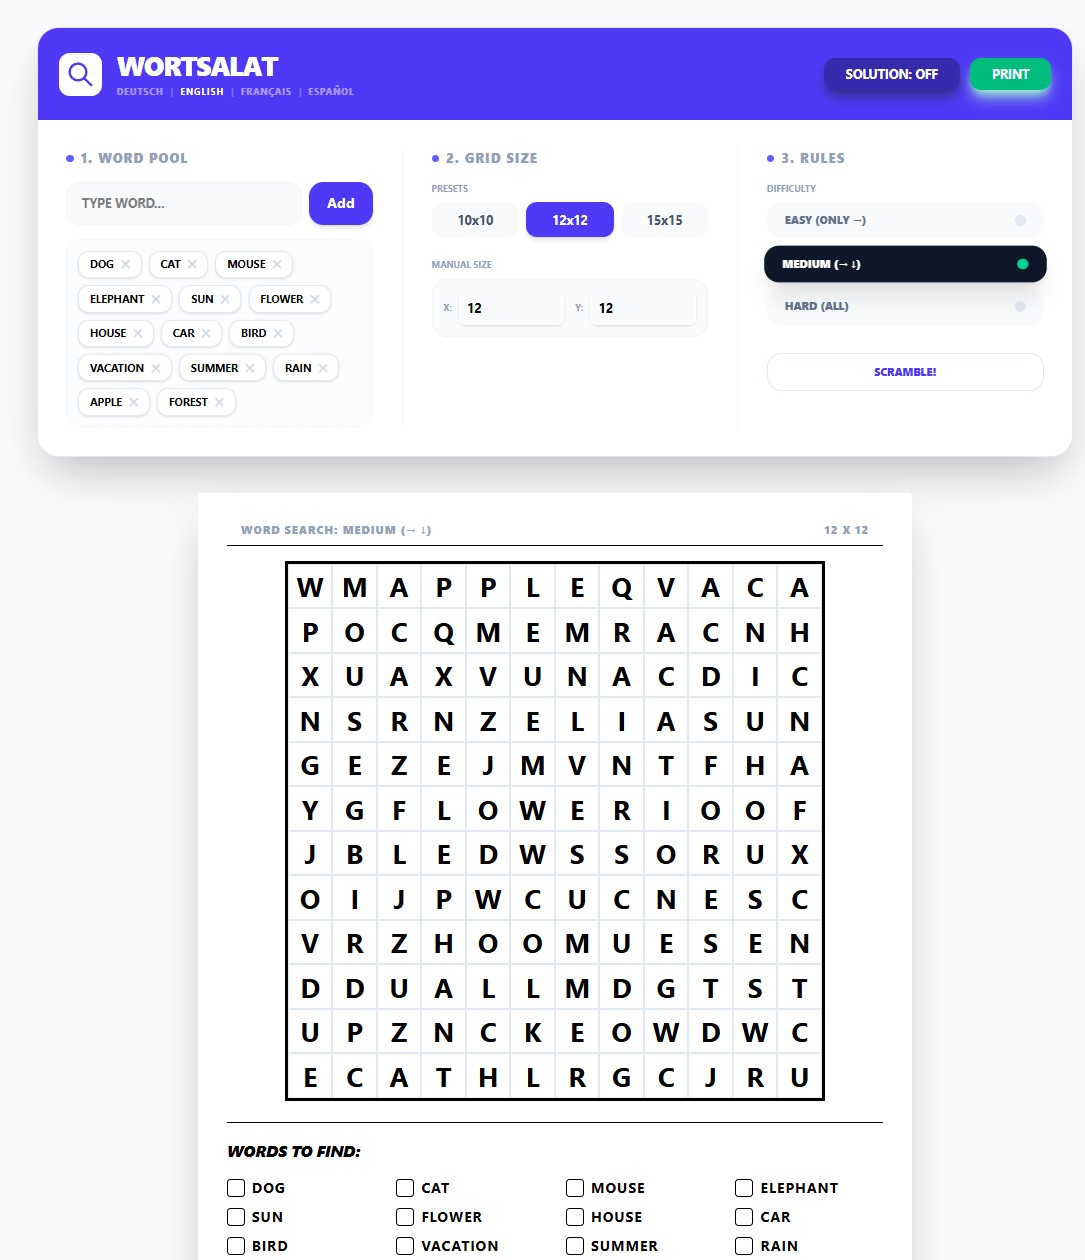
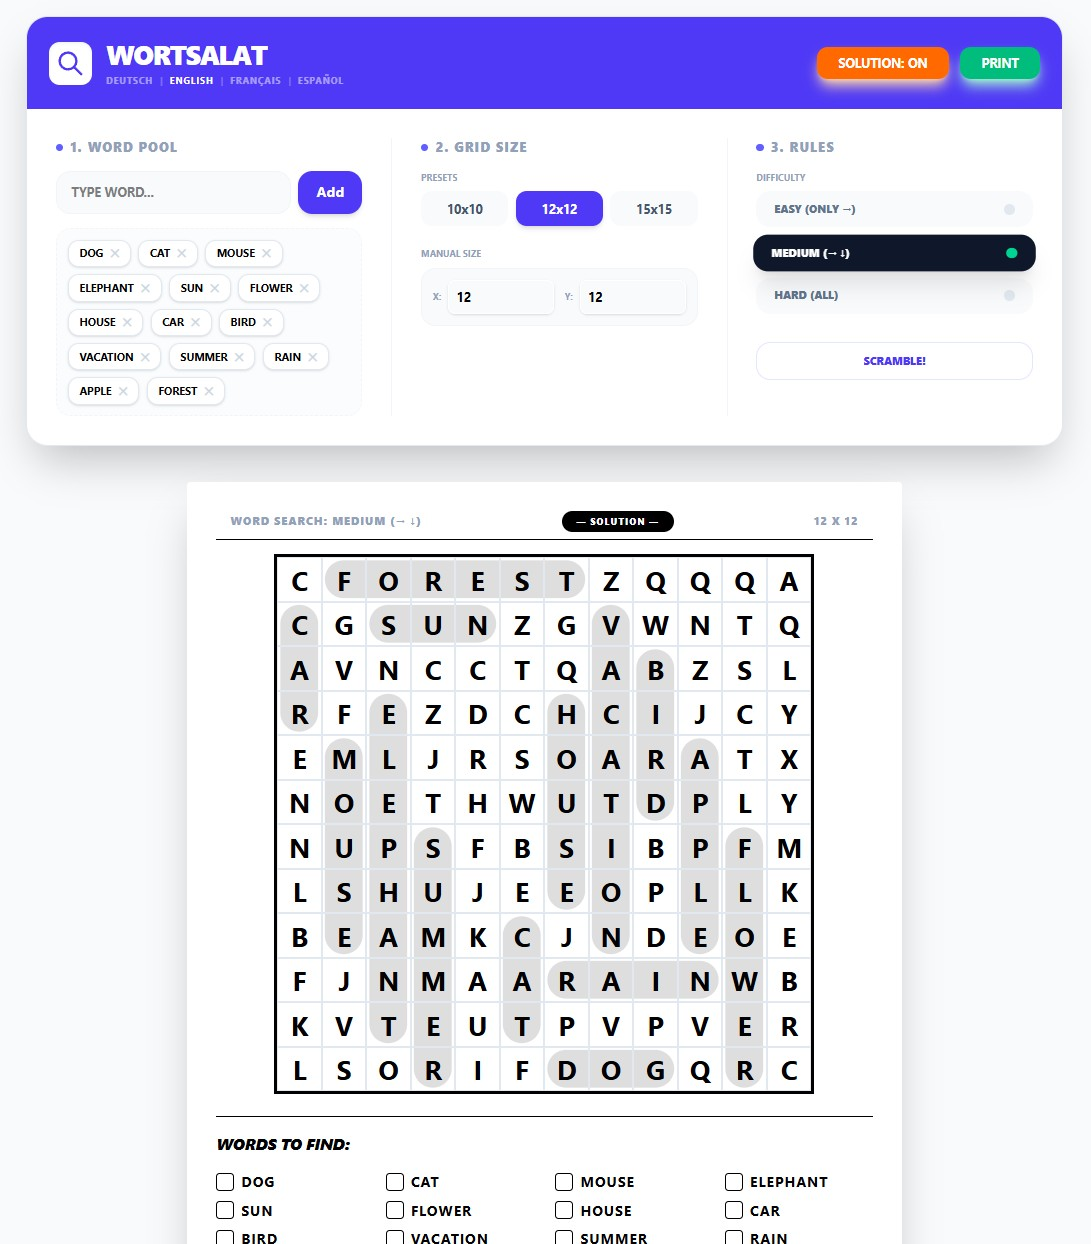
Pills

diff --git a/wortsalat/src/app/app.ts b/wortsalat/src/app/app.ts
@@ -2,7 +2,9 @@ import { Component, signal, computed, OnInit } from '@angular/core';
 import { CommonModule } from '@angular/common';
 import { ReactiveFormsModule, FormControl, Validators } from '@angular/forms';
 
-
+/**
+ * Interface für die Übersetzungen und Sprachkonfiguration
+ */
 interface I18nConfig {
   title: string;
   solutionLabel: string;
@@ -26,6 +28,9 @@ interface I18nConfig {
   starterWords: string[];
 }
 
+/**
+ * Die verschiedenen Sprachpakete
+ */
 const LANGUAGES: { [key: string]: I18nConfig } = {
   de: {
     title: 'Wortsalat',
@@ -188,6 +193,7 @@ interface PlacedWord {
           </div>
 
           <div class="p-8 grid grid-cols-1 lg:grid-cols-3 gap-8">
+            <!-- 1. Wort-Eingabe -->
             <div class="space-y-4 min-w-0">
               <h3 class="text-sm font-black text-slate-400 uppercase tracking-widest flex items-center gap-2">
                 <span class="w-2 h-2 bg-indigo-500 rounded-full"></span> {{ t().step1 }}
@@ -208,6 +214,7 @@ interface PlacedWord {
               </div>
             </div>
 
+            <!-- 2. Gitter-Konfiguration -->
             <div class="space-y-4 border-l border-slate-100 lg:pl-8 min-w-0">
               <h3 class="text-sm font-black text-slate-400 uppercase tracking-widest flex items-center gap-2">
                 <span class="w-2 h-2 bg-indigo-500 rounded-full"></span> {{ t().step2 }}
@@ -228,6 +235,7 @@ interface PlacedWord {
                   </div>
                 </div>
 
+                <!-- Manuelle Eingabe -->
                 <div class="space-y-2">
                   <label class="text-[10px] font-bold text-slate-400 uppercase block">{{ t().manualSize }}</label>
                   <div class="grid grid-cols-2 gap-3 p-3 bg-slate-50 rounded-2xl border-2 border-slate-100">
@@ -244,6 +252,7 @@ interface PlacedWord {
               </div>
             </div>
 
+            <!-- 3. Regeln -->
             <div class="space-y-4 border-l border-slate-100 lg:pl-8 min-w-0">
               <h3 class="text-sm font-black text-slate-400 uppercase tracking-widest flex items-center gap-2">
                 <span class="w-2 h-2 bg-indigo-500 rounded-full"></span> {{ t().step3 }}
@@ -273,6 +282,7 @@ interface PlacedWord {
         </div>
       </div>
 
+      <!-- Druckbares Blatt (A4) - Optimiert für eine Seite -->
       <div id="puzzle-sheet" class="max-w-[210mm] mx-auto bg-white p-6 md:p-8 print:p-0 print:shadow-none shadow-2xl rounded-sm print:m-0 relative overflow-visible">
 
         <header class="mb-4">
@@ -290,29 +300,24 @@ interface PlacedWord {
              [style.max-width]="'600px'"
              [style.aspect-ratio]="cols() + '/' + rows()">
 
+          <!-- Ebene 1: Die Lösungsebene (Pills mit grauem Hintergrund) -->
           @if (showSolution()) {
             <svg class="absolute top-0 left-0 w-full h-full pointer-events-none overflow-visible z-10"
                  [attr.viewBox]="'0 0 ' + (cols() * 10) + ' ' + (rows() * 10)"
                  preserveAspectRatio="none"
                  style="display: block;">
               @for (pw of placedWords(); track $index) {
-                <g>
-                  <!-- Kräftiger Rahmen um das Wort -->
-                  <line
-                    [attr.x1]="pw.x * 10 + 5"
-                    [attr.y1]="pw.y * 10 + 5"
-                    [attr.x2]="(pw.x + pw.dx * (pw.word.length - 1)) * 10 + 5"
-                    [attr.y2]="(pw.y + pw.dy * (pw.word.length - 1)) * 10 + 5"
-                    stroke-linecap="round" stroke="black" stroke-width="12.5"
-                  />
-                  <line
-                    [attr.x1]="pw.x * 10 + 5"
-                    [attr.y1]="pw.y * 10 + 5"
-                    [attr.x2]="(pw.x + pw.dx * (pw.word.length - 1)) * 10 + 5"
-                    [attr.y2]="(pw.y + pw.dy * (pw.word.length - 1)) * 10 + 5"
-                    stroke-linecap="round" stroke="white" stroke-width="9.5"
-                  />
-                </g>
+                <!-- Pills/Kapseln als Hervorhebung -->
+                <line
+                  [attr.x1]="pw.x * 10 + 5"
+                  [attr.y1]="pw.y * 10 + 5"
+                  [attr.x2]="(pw.x + pw.dx * (pw.word.length - 1)) * 10 + 5"
+                  [attr.y2]="(pw.y + pw.dy * (pw.word.length - 1)) * 10 + 5"
+                  stroke-linecap="round"
+                  stroke="rgba(200, 200, 200, 0.6)"
+                  stroke-width="8.5"
+                  class="print:stroke-slate-200"
+                />
               }
             </svg>
           }
@@ -332,7 +337,7 @@ interface PlacedWord {
           </div>
         </div>
 
-        <!-- Wortliste zum Suchen - Kleiner gestaltet -->
+        <!-- Wortliste zum Suchen -->
         <div class="mt-6 border-t-2 border-black pt-4">
           <h3 class="text-lg font-black uppercase mb-4 italic tracking-tight">{{ t().listHeader }}</h3>
           <div class="grid grid-cols-2 md:grid-cols-3 lg:grid-cols-4 gap-y-2 gap-x-6">
